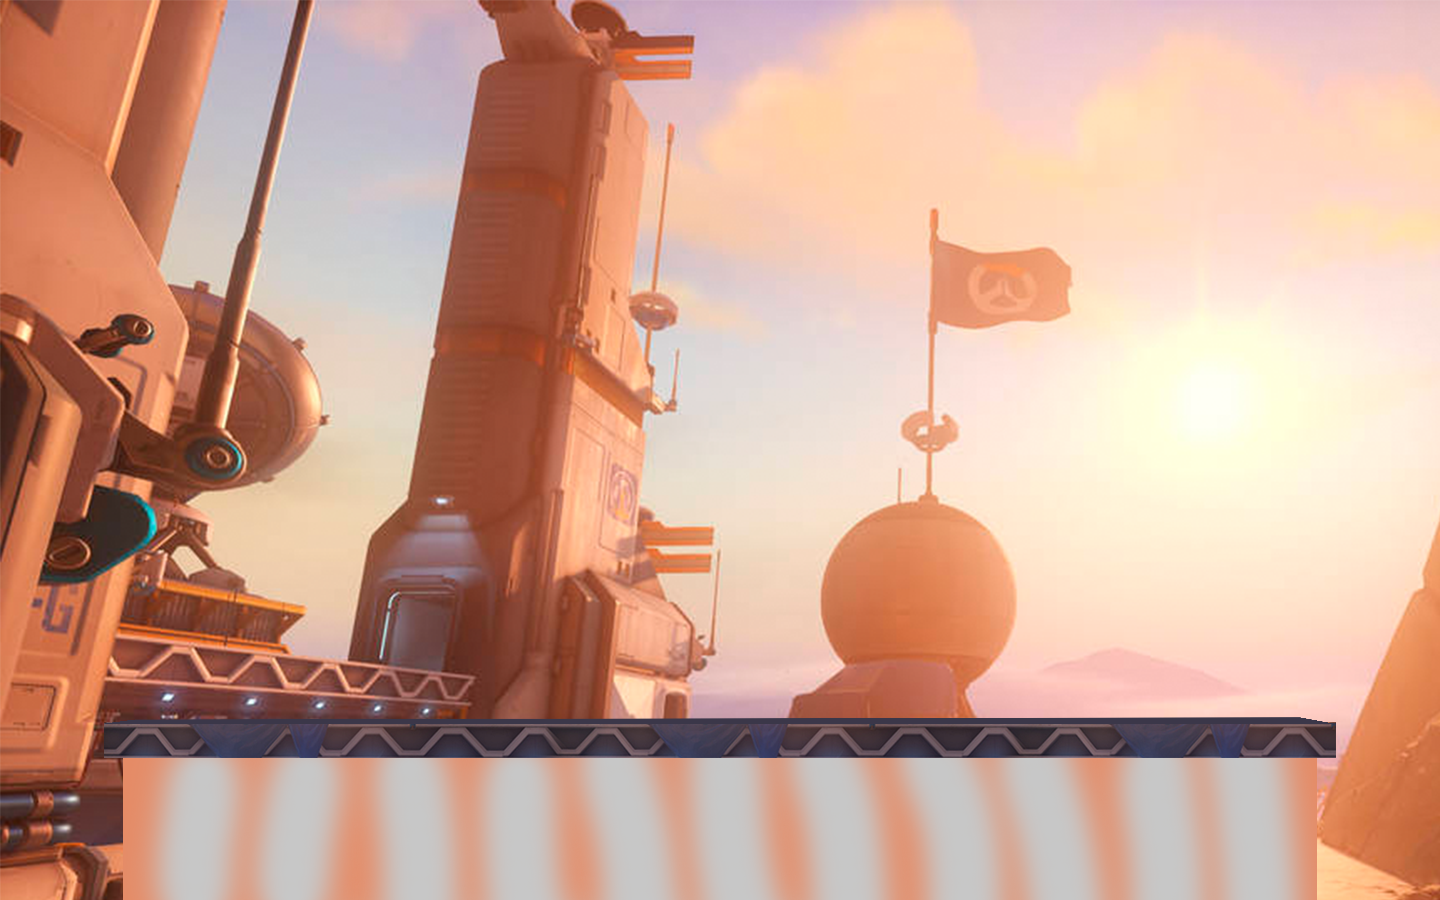
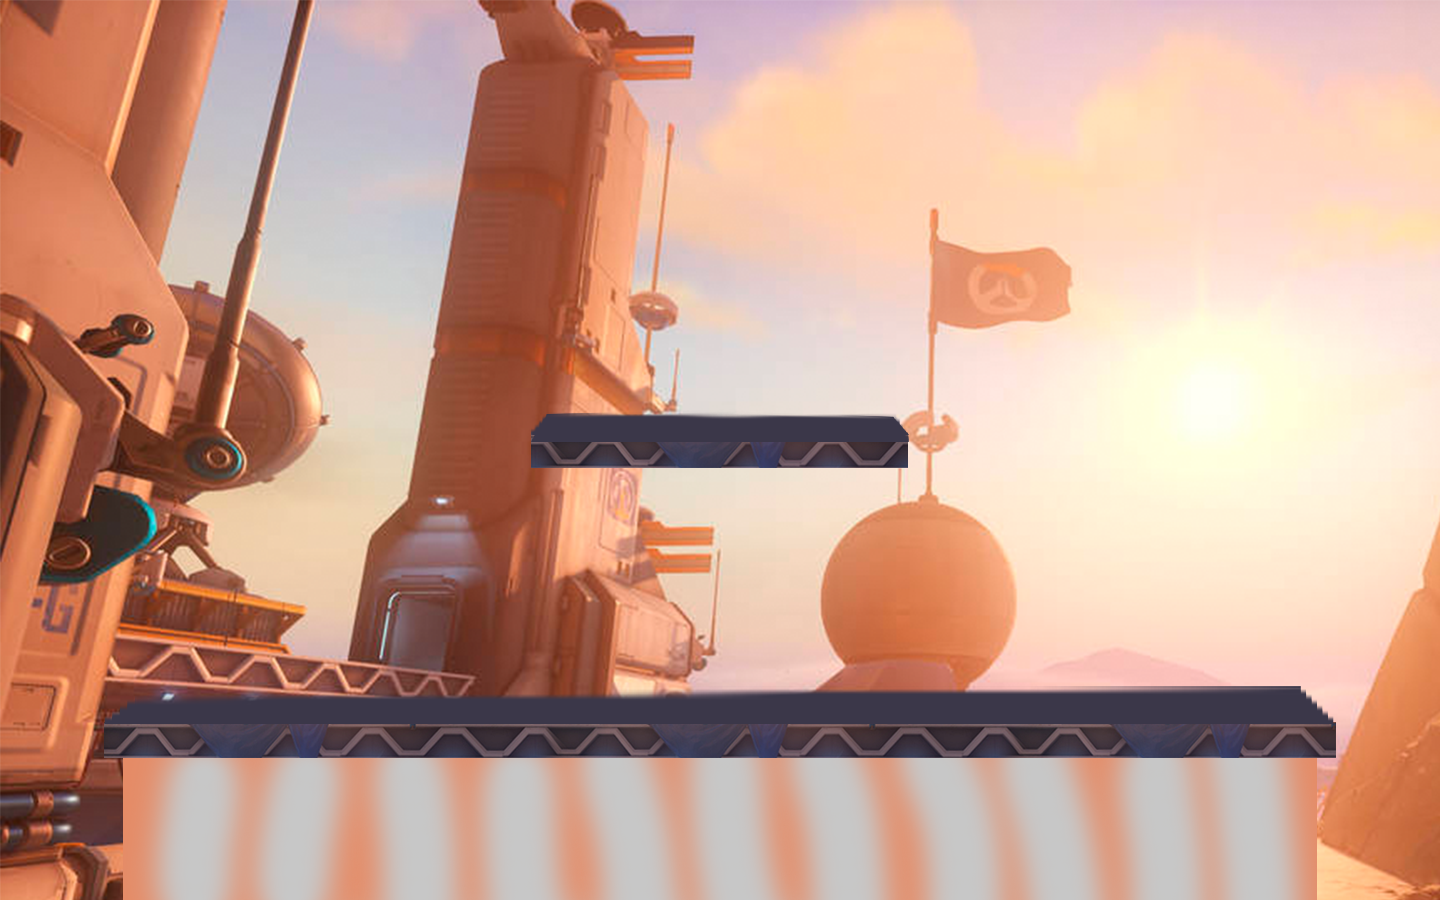
Working Flying Animation

Changed region(s): [[0.0625, 0.7467, 0.9375, 0.8089], [0.3438, 0.4356, 0.6562, 0.5289]]

diff --git a/ow_ssb/Player.java b/ow_ssb/Player.java
@@ -81,6 +81,7 @@ public class Player {
     public boolean canWalk;
     public static final long walkCD = 10;
     public boolean canAttack;
+    public boolean attacking;
     public static final long attackCD = 500;
     public static final long respawnCD = 5000;
 
@@ -298,20 +299,34 @@ public class Player {
 
     public void jump() {
         if (onGround) {
-            myVector.setY(-35);
+            myVector.setY(-30);
             onGround = false;
-            new CooldownTracker(this, (long) 250, "doubleJump");
+            doubleJump = false;
+            new CooldownTracker(this, (long) 300, "doubleJump");
         } else if (doubleJump) {
-            myVector.setY(-20);
+            myVector.setY(myVector.getY() - 20);
             doubleJump = false;
             new CooldownTracker(this, (long) 150, "doubleJump");
         }
     }
 
     public void checkGround() {
-        if (myPos.getY() >= Stage.FLOOR_TOP && myPos.getY() <= Stage.FLOOR_TOP + 10 && myPos.getX() > 100 && myPos.getX() < SmashGame.APP_WIDTH - 100) {
+        if (myPos.getY() >= Stage.FLOOR_TOP && myPos.getY() <= Stage.FLOOR_TOP + 10 && myPos.getX() > Stage.FLOOR_GAP && myPos.getX() < SmashGame.APP_WIDTH - Stage.FLOOR_GAP) {
 
             myPos.setY(Stage.FLOOR_TOP);
+            if (myVector.getY() >= 0) 
+            {
+                myVector.setY(0);
+            }
+            if (myVector.getY() > -5)
+            {
+                onGround = true;
+                doubleJump = true;
+            }
+        }
+        else if (myPos.getY() >= Stage.BALCONY_TOP && myPos.getY() <= Stage.BALCONY_TOP + 10 && myPos.getX() > Stage.BALCONY_GAP && myPos.getX() < SmashGame.APP_WIDTH - Stage.BALCONY_GAP) {
+
+            myPos.setY(Stage.BALCONY_TOP);
             if (myVector.getY() >= 0) 
             {
                 myVector.setY(0);
@@ -505,6 +520,11 @@ public class Player {
         {
             facingDirec = "";
             animationDirec = "/dead";
+        }
+
+        if(attacking)
+        {
+            animationDirec = animationDirec + "shooting";
         }
 
         if (!(prevDirec.equals(facingDirec + animationDirec))) {

diff --git a/ow_ssb/Pharah.java b/ow_ssb/Pharah.java
@@ -31,7 +31,7 @@ public class Pharah extends Player
     public static final int MY_WIDTH = 166;
 
     /** Cooldowns for Pharah */
-    public static final long attackCD = 500;
+    public static final long attackCD = 600;
 
     /** Timer thread */
     public Timer timer;
@@ -57,9 +57,13 @@ public class Pharah extends Player
     */
     public boolean attack()
     {
-        otherPlayers.myPlayers.add(new PharahRocket(myId * 100 + 1, (int) myPos.getX(), (int) (myPos.getY() - (scale * 100)), otherPlayers, facingRight, enemyId));
+        attacking = true;
+        int newX = -55;
+        if(facingRight){newX = 55;}
+        otherPlayers.myPlayers.add(new PharahRocket(myId * 100 + 1, (int) myPos.getX() + newX, (int) (myPos.getY() - 124), otherPlayers, facingRight, enemyId));
         canAttack = false;
         new CooldownTracker(this, (long) attackCD, "canAttack");
+        new CooldownTracker(this, (long) 150, "attacking");
         return true;
     }
 

diff --git a/ow_ssb/CooldownTracker.java b/ow_ssb/CooldownTracker.java
@@ -49,6 +49,10 @@ public class CooldownTracker {
                 myPlayer.respawn();
                 break;
 
+                case "attacking":
+                myPlayer.attacking = false;
+                break;
+
                 default:
                 System.err.println("No Such Cooldown Found for Input: \"" + whichCD + "\"");
                 break;

diff --git a/ow_ssb/Stage.java b/ow_ssb/Stage.java
@@ -17,6 +17,12 @@ public class Stage {
 
 	public static final double FLOOR_BOTTOM = 758;
 
+	public static final double BALCONY_TOP = 432;
+
+	public static final double BALCONY_GAP = 531;
+
+	public static final double BALCONY_BOTTOM = 468;
+
 	/** Stage Path */
 	public final String BASE_DIREC = "./graphics/stages/";
 

diff --git a/ow_ssb/SmashGame.java b/ow_ssb/SmashGame.java
@@ -100,7 +100,7 @@ public class SmashGame {
       setupFrame();
       iR = new ImageResizer(this);
       scale = getScale();
-      //scale = 1; //Manually set Scale
+      //scale = 0.35; //Manually set Scale
       myTitleScreen.run();
    }
 
